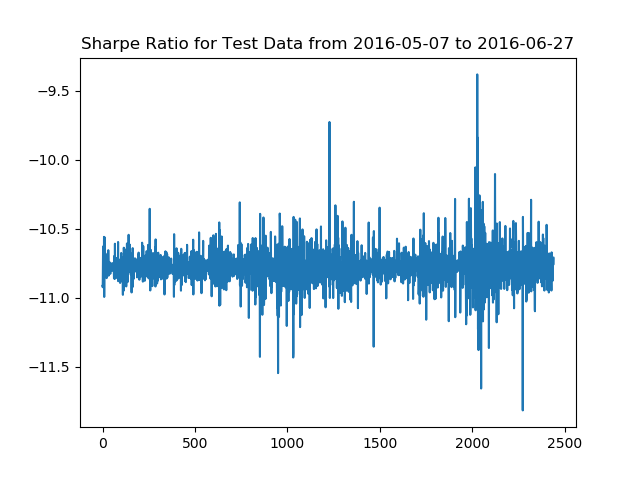
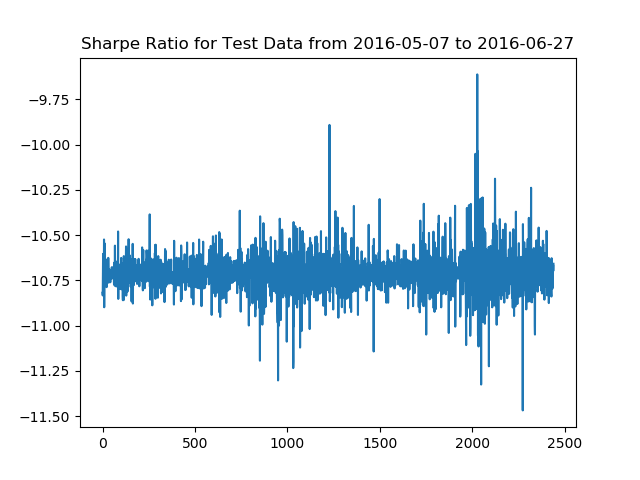
Policy Softmax Operand

diff --git a/examples/lab_ppo_rb.py b/examples/lab_ppo_rb.py
@@ -85,10 +85,10 @@ if __name__ == '__main__':
             price_change_vec = []
             for bEvalX, bEvalYFat in batch_gen.load_test():
                 bEvalY = bEvalYFat[:,-1,:]
-                actor_action_test, critic_value_test = agent.act_and_fetch(sess, last_state, last_action, last_value, actor_rewards, bEvalX, 0)
+                actor_action_test = agent.get_allocations(sess, bEvalX)
                 assert bEvalY.shape == actor_action_test.shape
                 price_change_vec.append(bEvalY)
-                allocation_wts.append(tf.nn.softmax(actor_action_test))
+                allocation_wts.append(actor_action_test)
 
             true_change_vec = np.concatenate(price_change_vec)
             allocation_wts = np.concatenate(allocation_wts)

diff --git a/models/ppo_model.py b/models/ppo_model.py
@@ -140,6 +140,10 @@ class PPONetwork:
             self.value_t: value, self.advantage_t: advantage
         })
 
+    def get_softmax_policy(self, sess, state):
+        return sess.run(tf.nn.softmax(self._new_policy_op), {
+            self._market_state: state
+        })
     # def get_ratio_and_loss(self, sess, state, actions, values, advantage):
     #     return sess.run(self.__get_loss_op, {
     #         self._market_state: state, self.actor_t: actions,
@@ -188,7 +192,8 @@ class PPOAgent:
         self._network.update_old_params_op(sess)
         return loss_ratio[0], loss_ratio[1]
 
-
+    def get_allocations(self, sess, state):
+        return self._network.get_softmax_policy(sess, state)
 
     def _reset_trajectories(self):
         self.states = []
